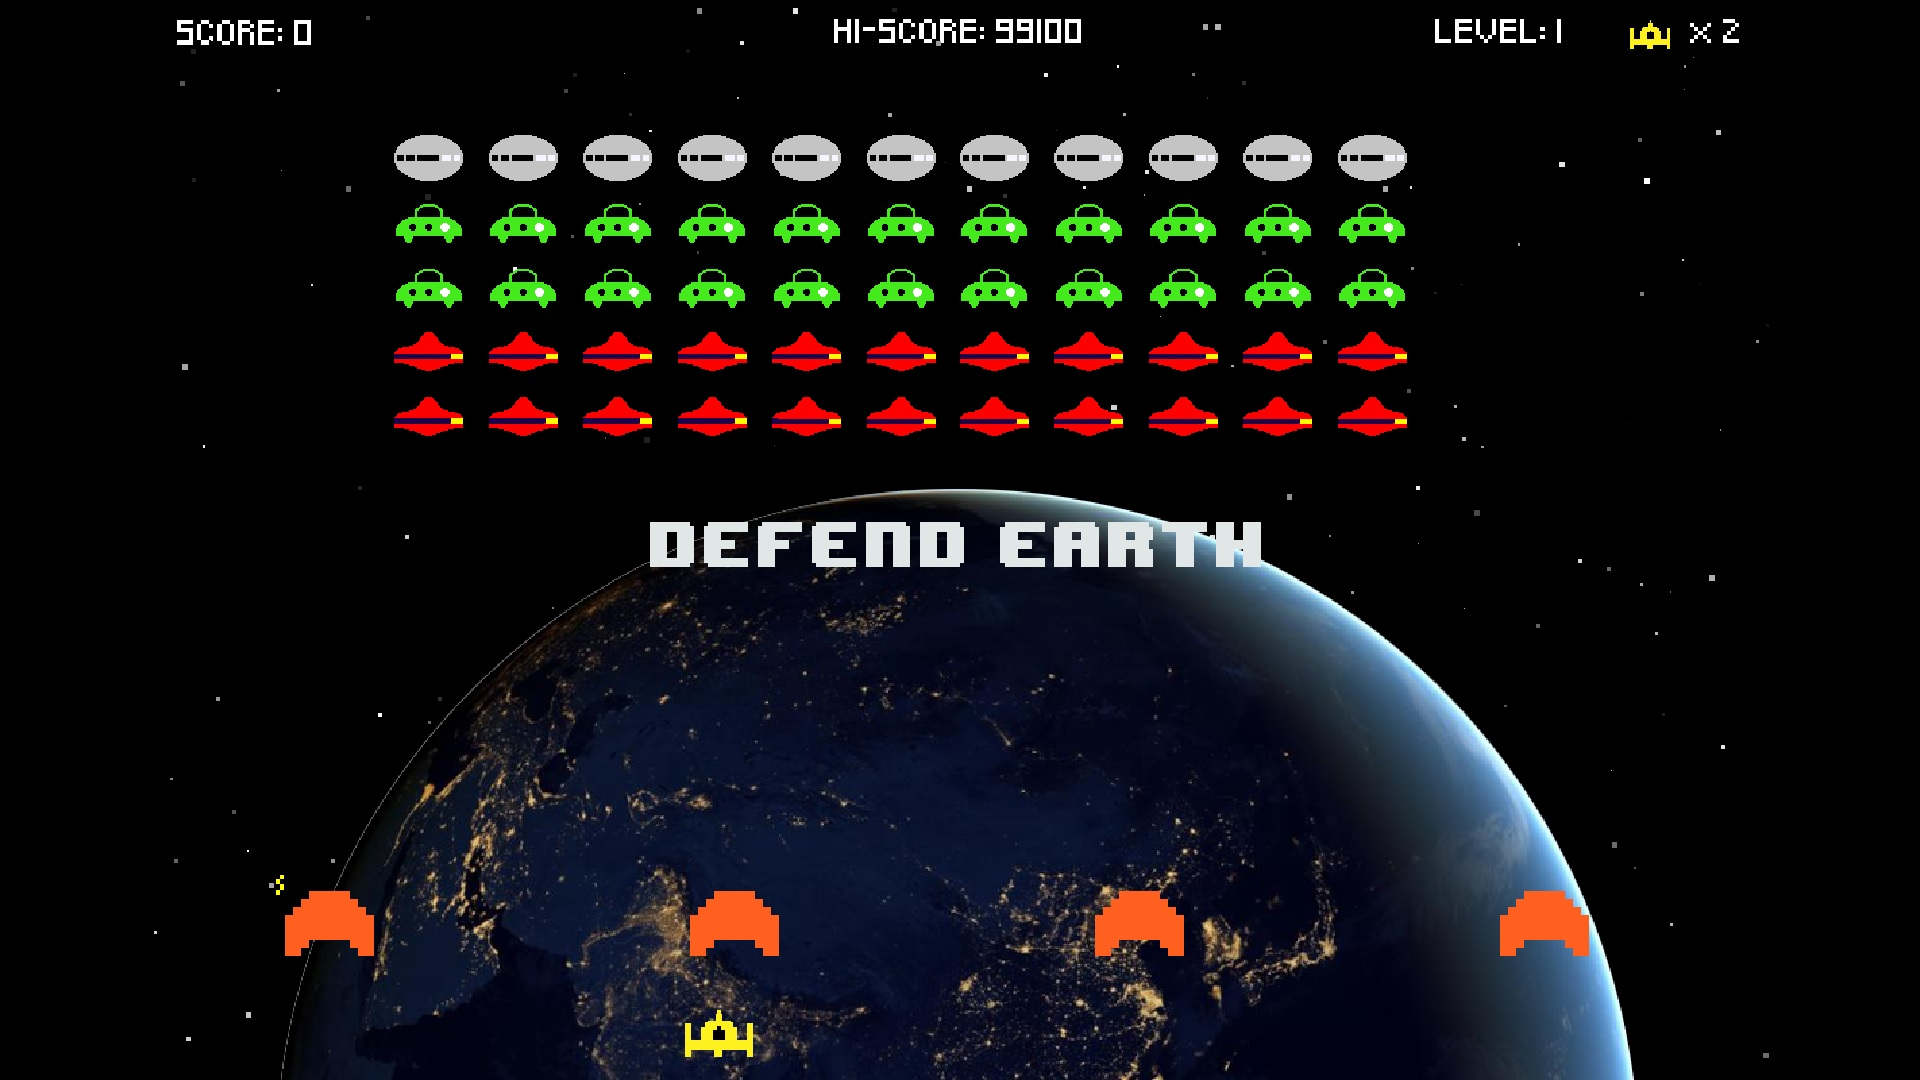
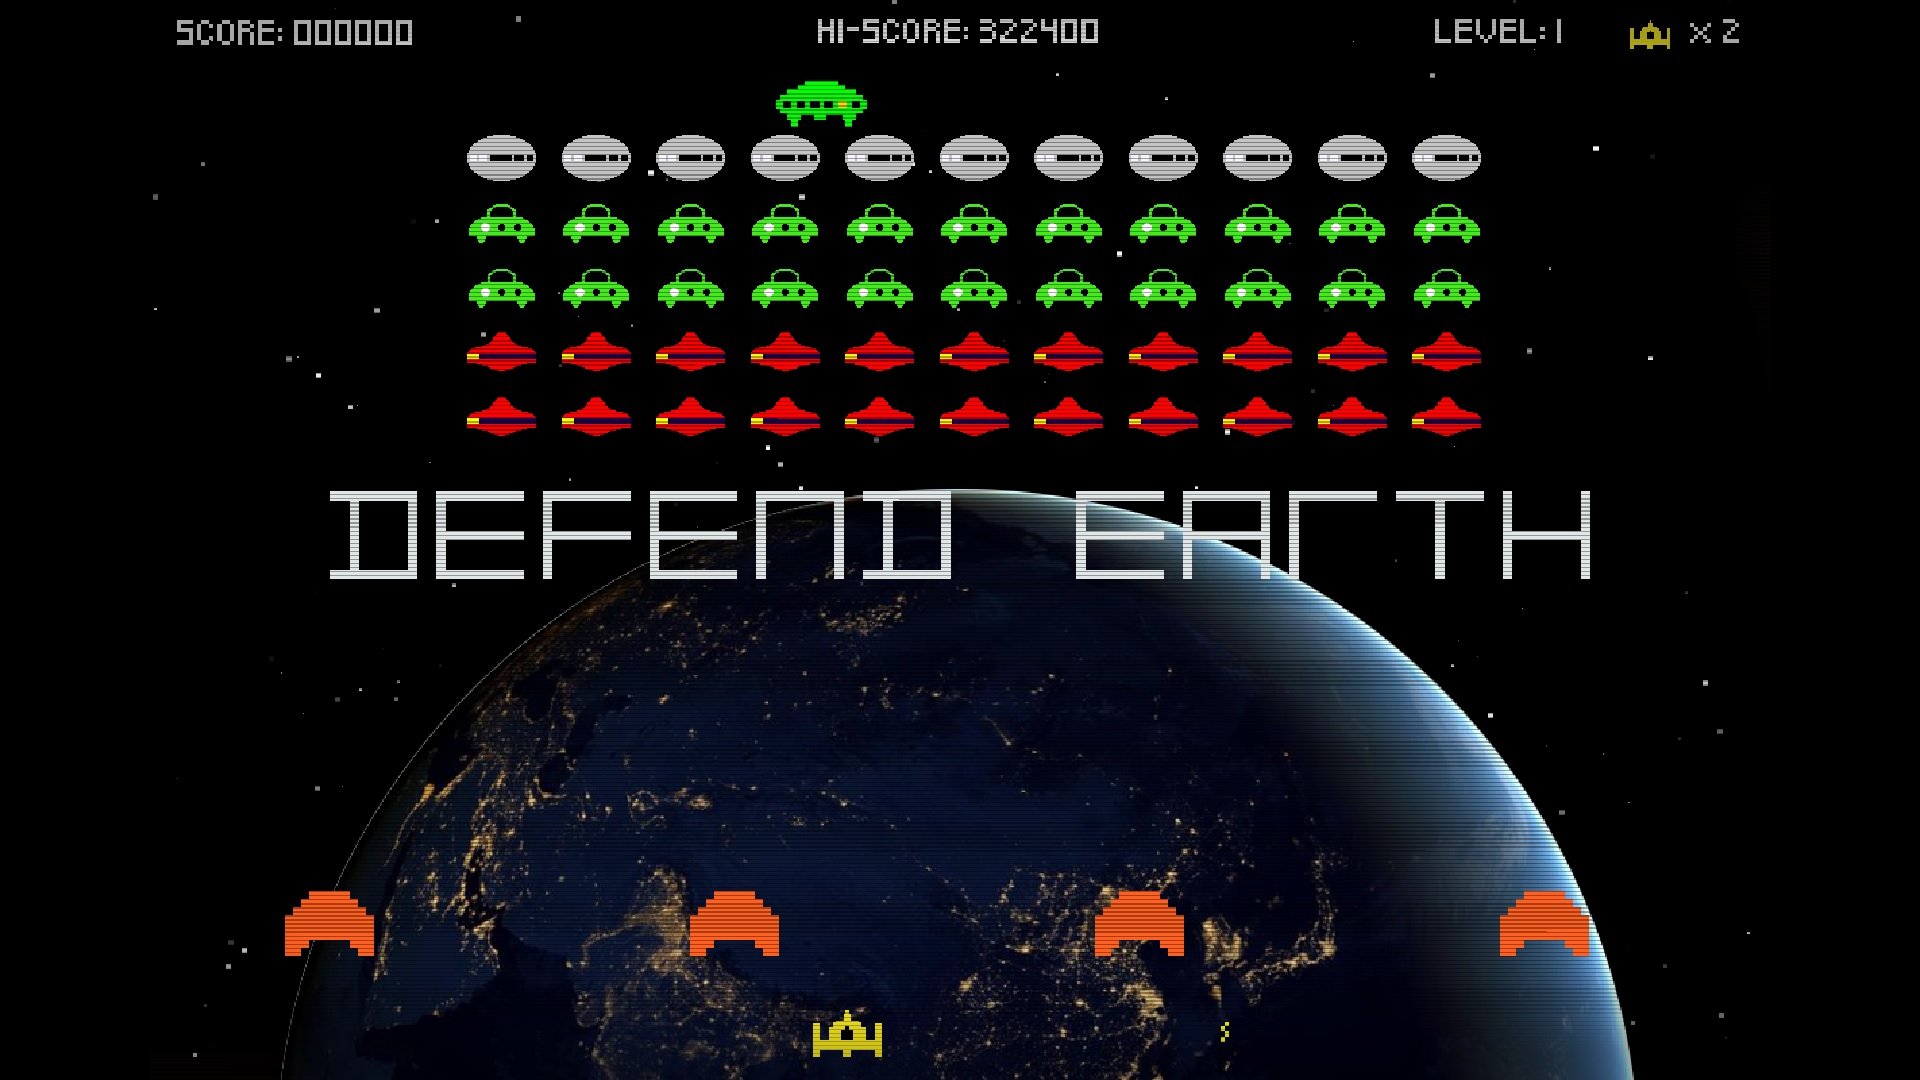
docs: atualizacao das telas do jogo no readme

diff --git a/README.md b/README.md
@@ -38,8 +38,8 @@ Inserir musica durante o jogo e refazer todos os efeitos sonoros.
 
 ### Screenshots
 ![Tela inicial](screenshots/tela_principal.jpg)  
+![Tela hiscore](screenshots/tela_hiscores.jpg)  
 ![Tela 1 jogo](screenshots/tela1_jogo.jpg)  
-![Tela 2 jogo](screenshots/tela2_jogo.jpg)  
 
 
 ### Créditos
